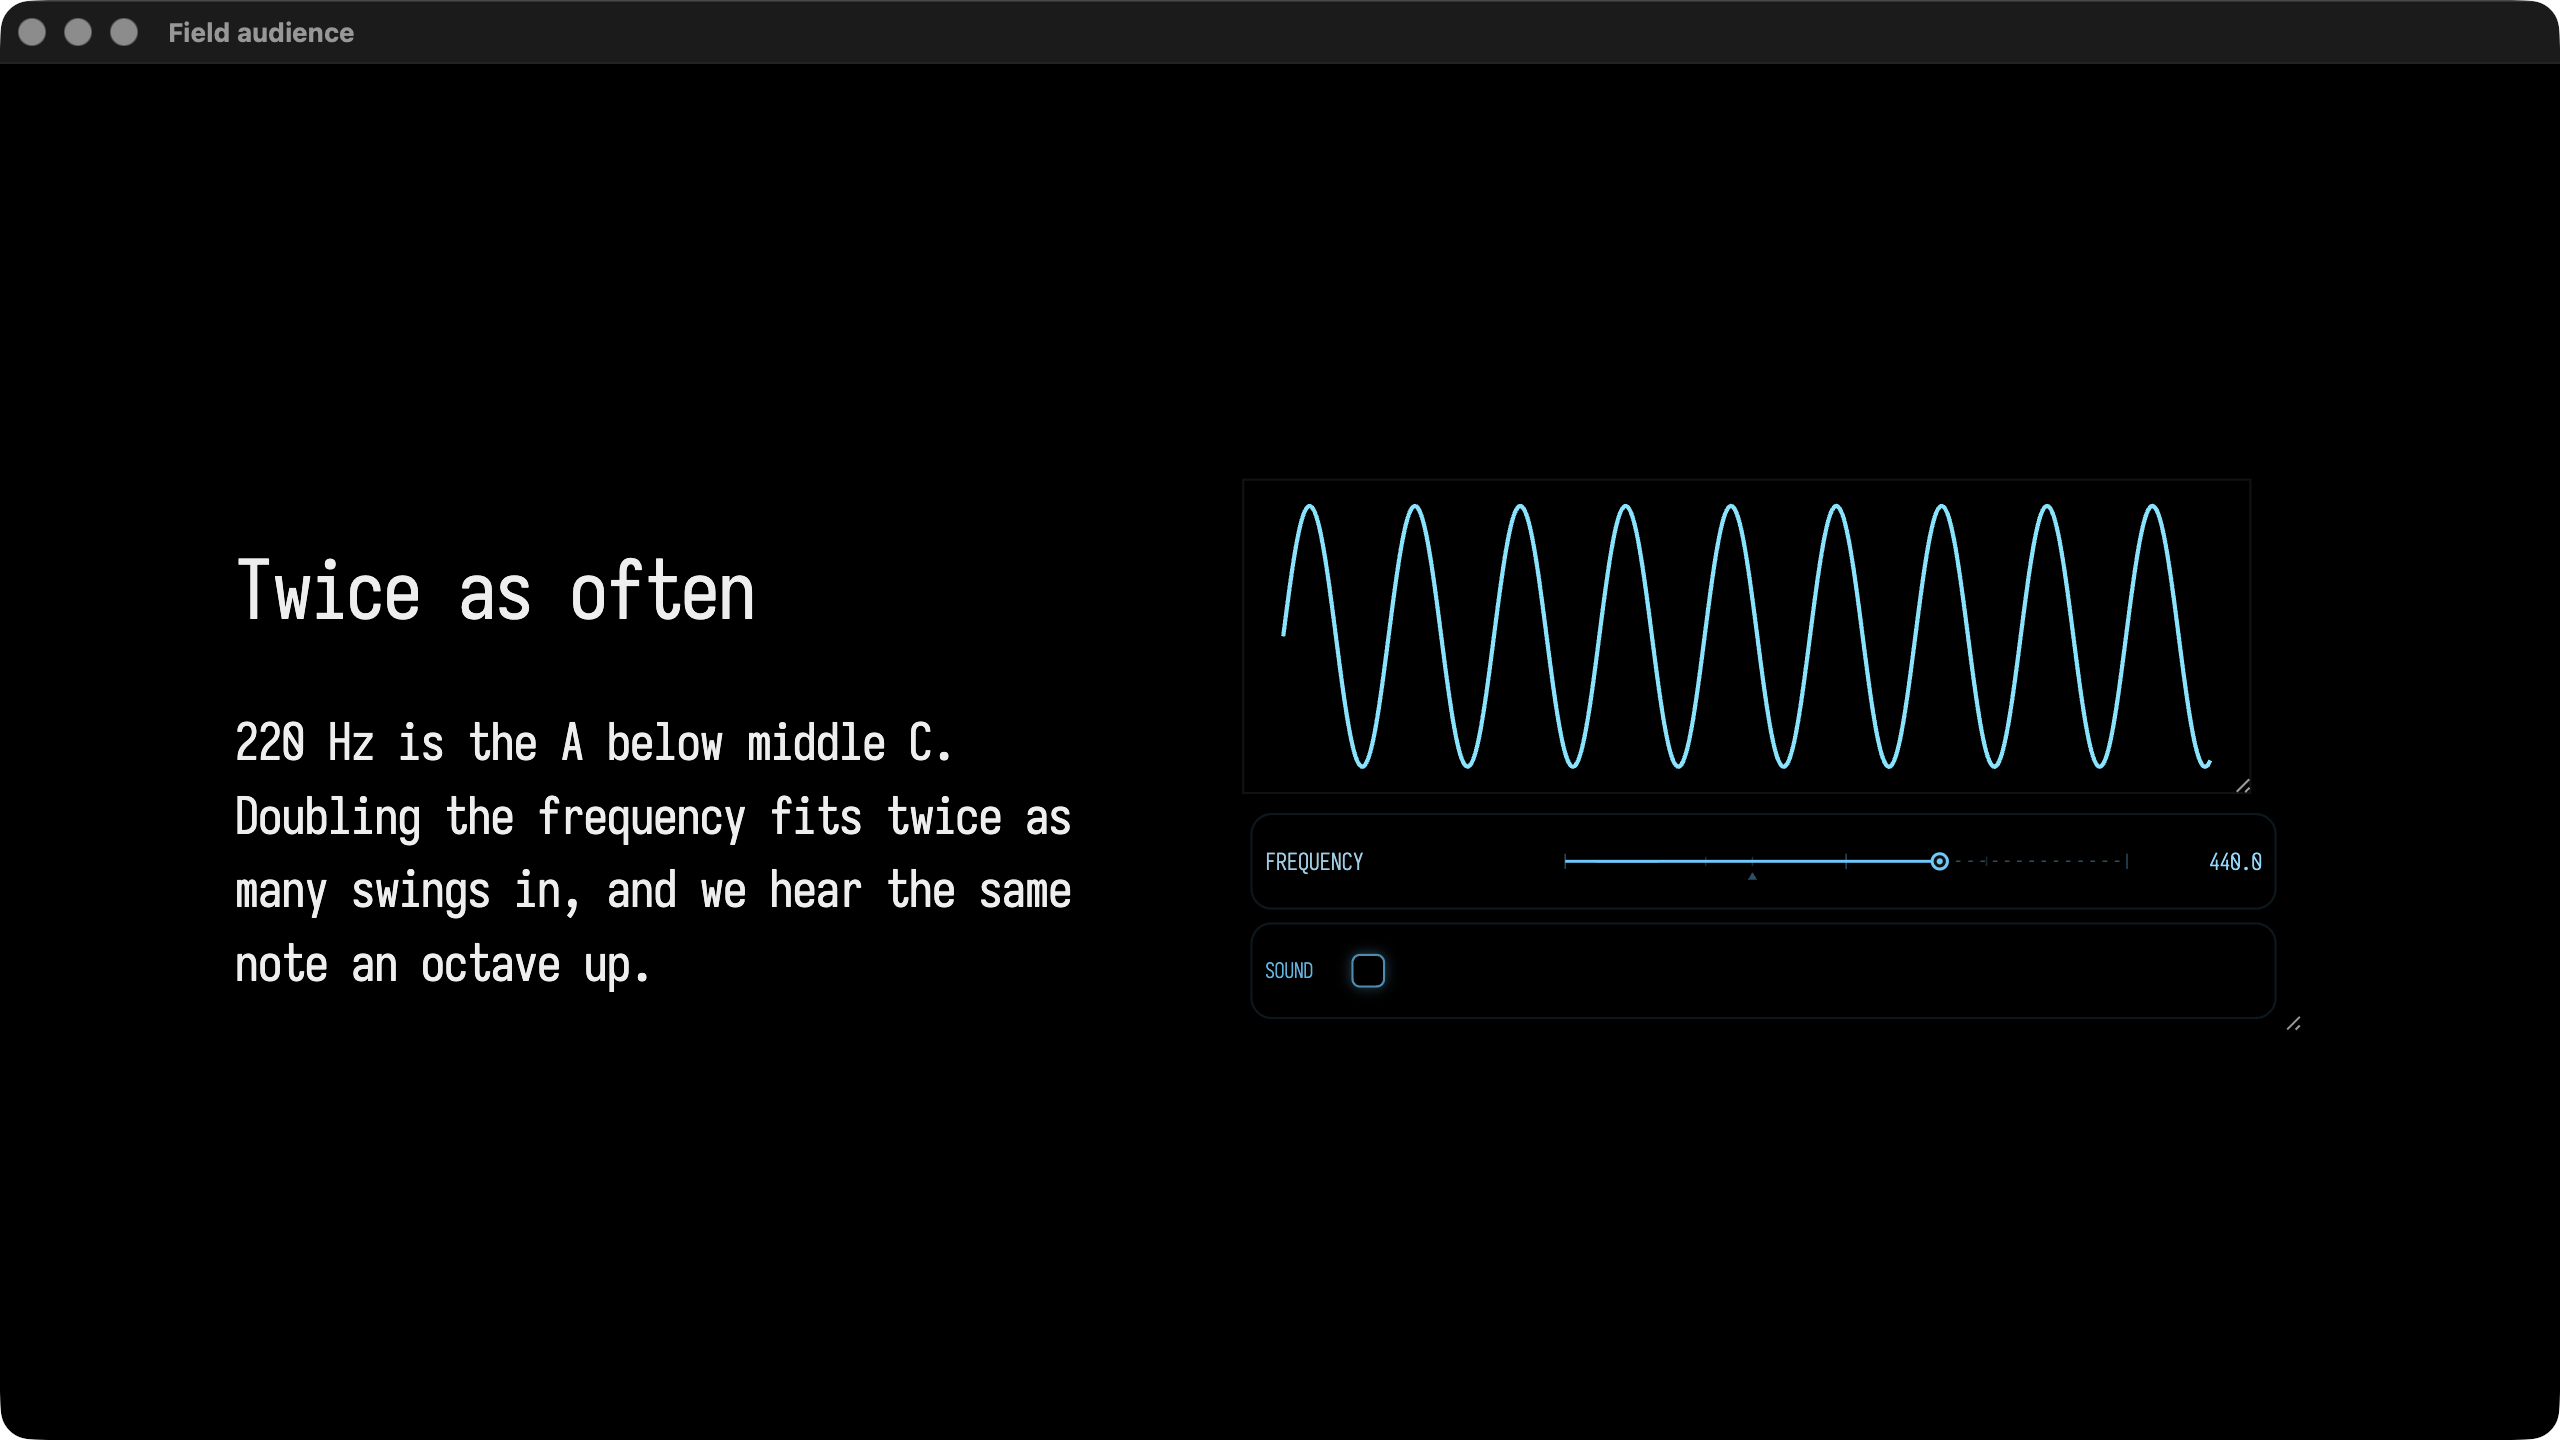
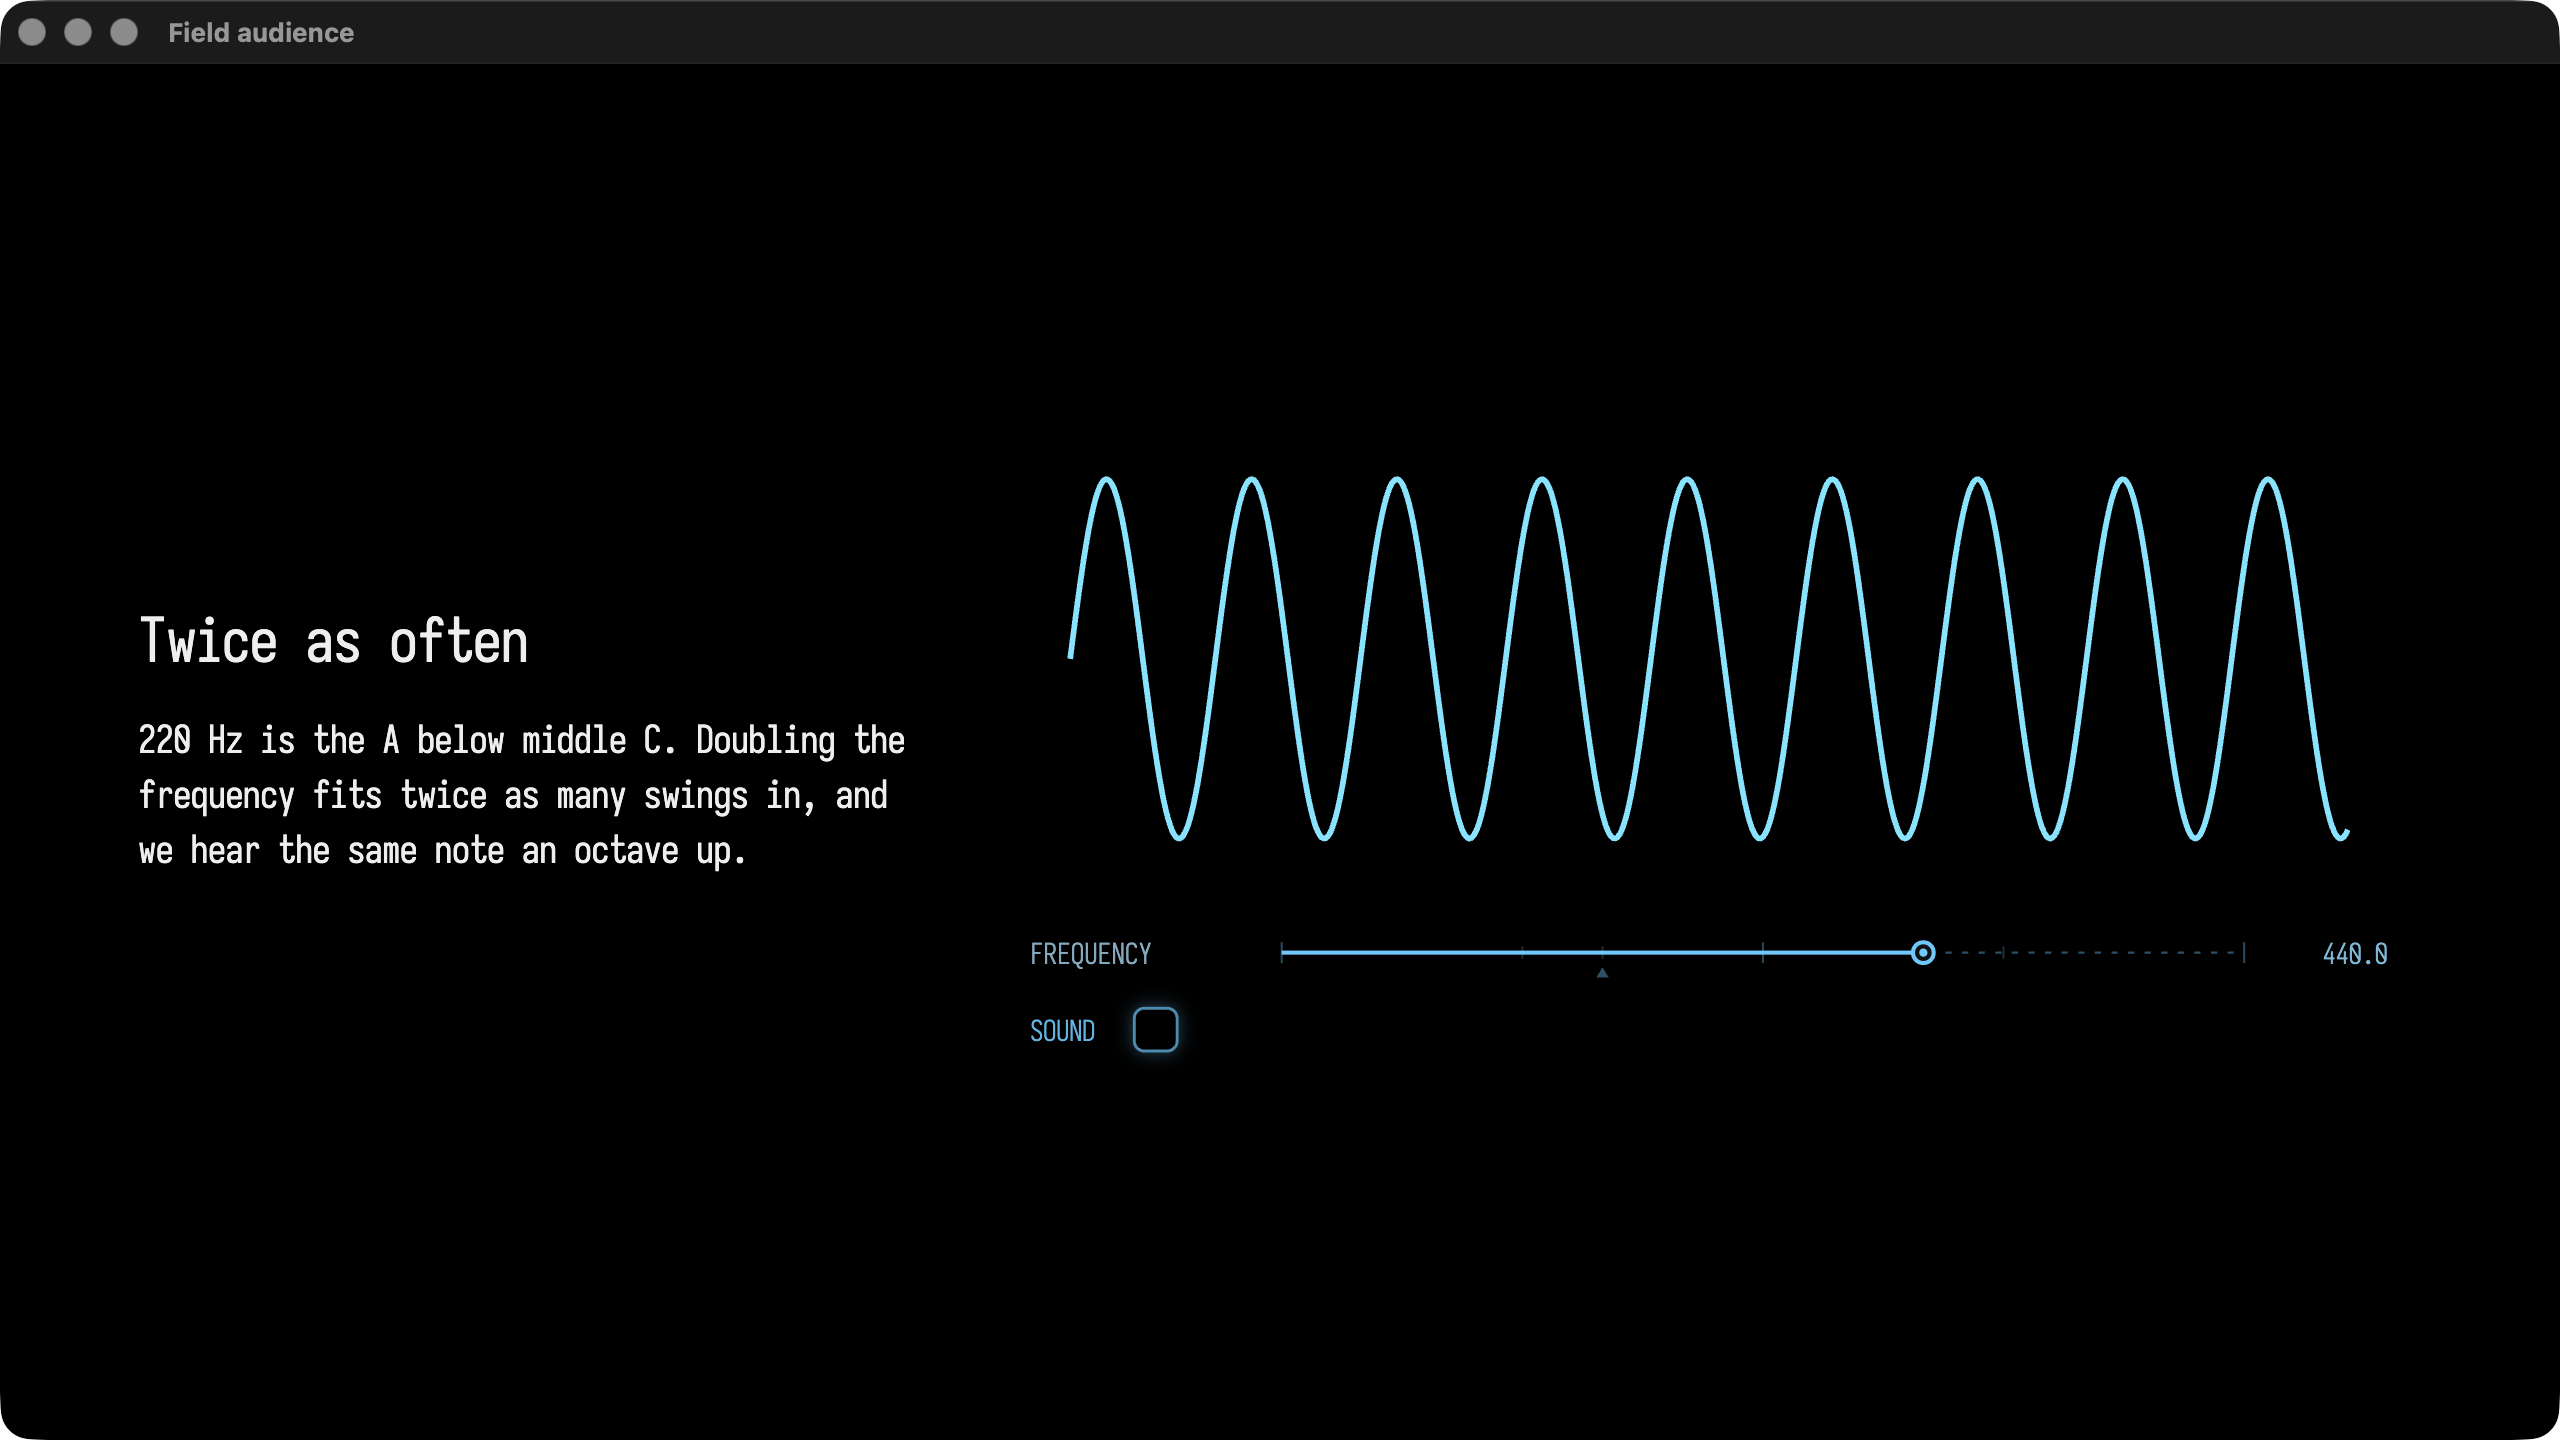
Docs: figure views, readouts and held framing; recapture the pilot figures
presentation_studio.md describes how a figure is drawn on the audience
display, readouts with markdown("readout", ...), and the held framing of
animated lines with LinesFraming. The deck brief gains the readout and
animation conventions. Both docs captures are retaken through
capture-figures.mjs, which now takes FIELD_ELECTRON_PID so it captures this
Electron's audience window when other decks have theirs open.

diff --git a/public/docs/presentation_studio.md b/public/docs/presentation_studio.md
@@ -534,6 +534,19 @@ A slide with figures has a **Reset: figures** button in the presenter controls. 
 control change the audience made, runs the figures again from their initial values, and returns to
 the slide's first cue. A slide with its own `checkpoint` shows that instead.
 
+On the audience display a figure is drawn as one picture with its controls beneath it: the box's
+output channels without their panel headers, borders or resize handles, scaled up to fill the slot
+with its proportions kept, and with compact controls (two columns once there are more than three).
+All of its text is in Field's Iosevka. For a line of text beside the picture, such as a measured
+value, use `markdown("readout", "10 of 12 rays land · cos 30° = **0.87**")` rather than HTML with
+its own styles; the figure sets its size and colour to match the talk.
+
+An animated drawing keeps its framing. When a `loop { }` redraws `lines(...)` every frame, the first
+frame decides the scale and position and later frames keep them, so something moving near the edge
+does not rescale the whole picture; relaunching the box, or **Reset: figures**, frames it afresh.
+Pass `framing = LinesFraming.fixed(0.0, 0.0, 640.0, 300.0)` to choose the frame yourself, or
+`framing = LinesFraming.Fit` to refit every frame.
+
 The four-slide deck this section comes from is the `explainer_sine_pitch` transcript in
 [Agent transcripts](agent_transcripts.md); it ends with the figure you can hear.
 

diff --git a/dev_docs/EXPLAINER_PRESENTATIONS.md b/dev_docs/EXPLAINER_PRESENTATIONS.md
@@ -284,6 +284,12 @@ a cue moves a control). Nothing here changes the deck format.
   orange `vec(1.0, 0.6, 0.2, 1.0)` for a second, white at 35 % alpha for guides. Sliders are named
   for the quantity in plain words (`frequency`, not `f`). Put controls in the `controls` channel and
   the picture in a named channel (`wave`, `scene`, `side`).
+- **Readouts** are `markdown("readout", "text with **numbers**")`, never HTML with inline styles:
+  the figure view sets readouts in Iosevka at its own size. Figure views force Iosevka on
+  everything anyway (`tools/test_presentation_fonts.py` keeps sans-serif out of the path).
+- **Animations** that redraw `lines(...)` in `loop { }` keep the first frame's framing by default
+  (`LinesFraming.Auto`); give `LinesFraming.fixed(x, y, w, h)` when the extent is known. No
+  invisible framing lines.
 - **Sound** never starts by itself. A figure that sounds has a `sound` checkbox (or hold buttons)
   and gain 0 until the reader or a cue (`control("x", "sound", true)`) turns it on. Every step that
   shows a sounding figure and should be silent declares `control("x", "sound", false)`, so Back is
